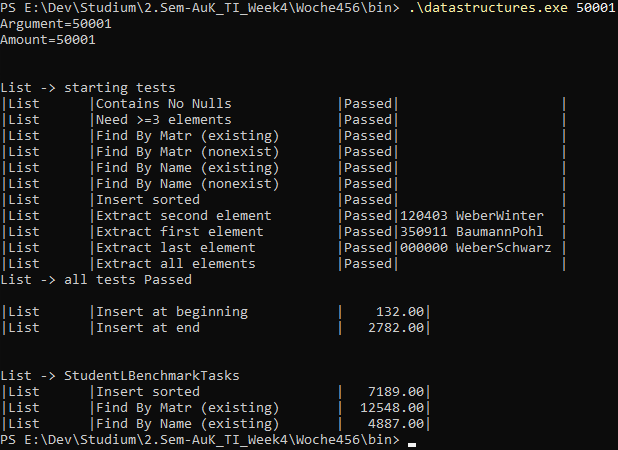
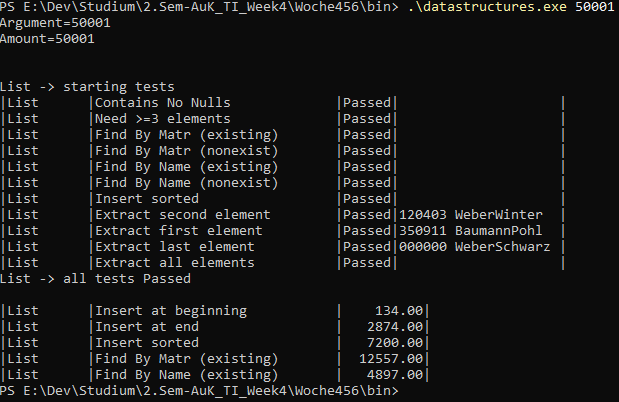
Adjusted code and refreshed screenshot

Changed region(s): [[0.0, 0.1791, 0.9223, 1.0], [0.0, 0.0, 1.0, 0.1194]]

diff --git a/Woche456/src/datastructures.c b/Woche456/src/datastructures.c
@@ -808,7 +808,7 @@ void StudentLBenchmarkBuiltin(StudentLP *inputList)
 
 void StudentLBenchmarkTasks(StudentLP *inputList)
 {
-	printf("\n\n%s -> StudentLBenchmarkTasks\n", DS_LIST);
+	// printf("\n\n%s -> StudentLBenchmarkTasks\n", DS_LIST);
 	clock_t begin, end;
 
 	StudentLP list_anchor = NULL;
